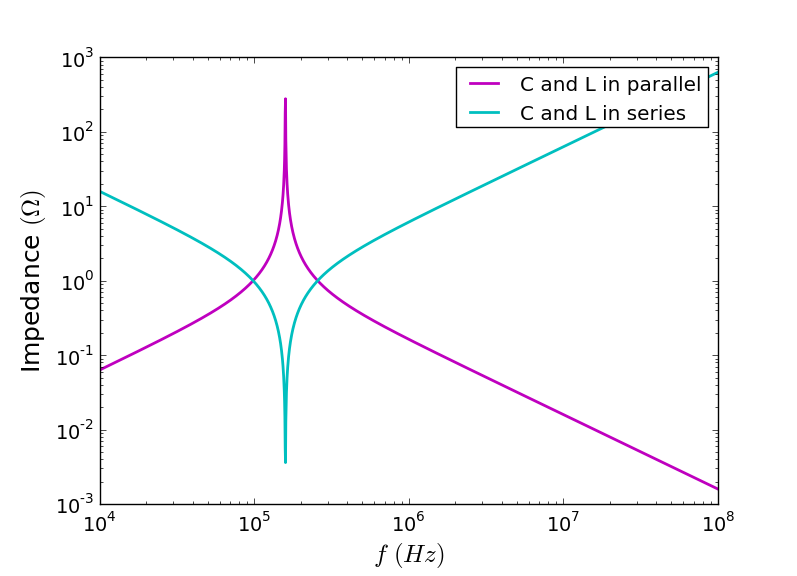
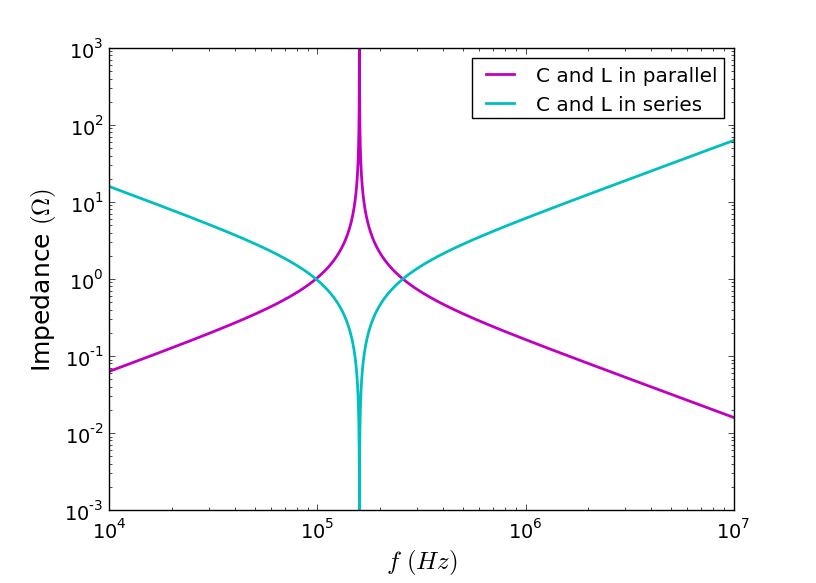
Improve the LC in parallel and in series plot to better show asymptotic behavior at resonant frequency

diff --git a/lab_analog/code/week1_plots.py b/lab_analog/code/week1_plots.py
@@ -36,7 +36,7 @@ def RC_filters():
 
 def LC_impedance_v_freq():
     """1.4.2 LC Impedance vs Frequency plot for L and C in parallel and in series"""
-    f = np.logspace(4, 8, num=2000)
+    f = np.logspace(4, 7, num=20000)  # the more resolution at resonance, better the peaks
     C1, L1 = C(1e-6), L(1e-6)
     parallel = CircuitImpedance([L1, C1])
     series = CircuitImpedance([L1], [C1])
@@ -46,6 +46,7 @@ def LC_impedance_v_freq():
     xlabel(r"$f$ $(Hz)$", fontsize=18)
     xticks(fontsize=14)
     yticks(fontsize=14)
+    ylim(1e-3, 1e3)
     legend(loc=1)
     show()
 
